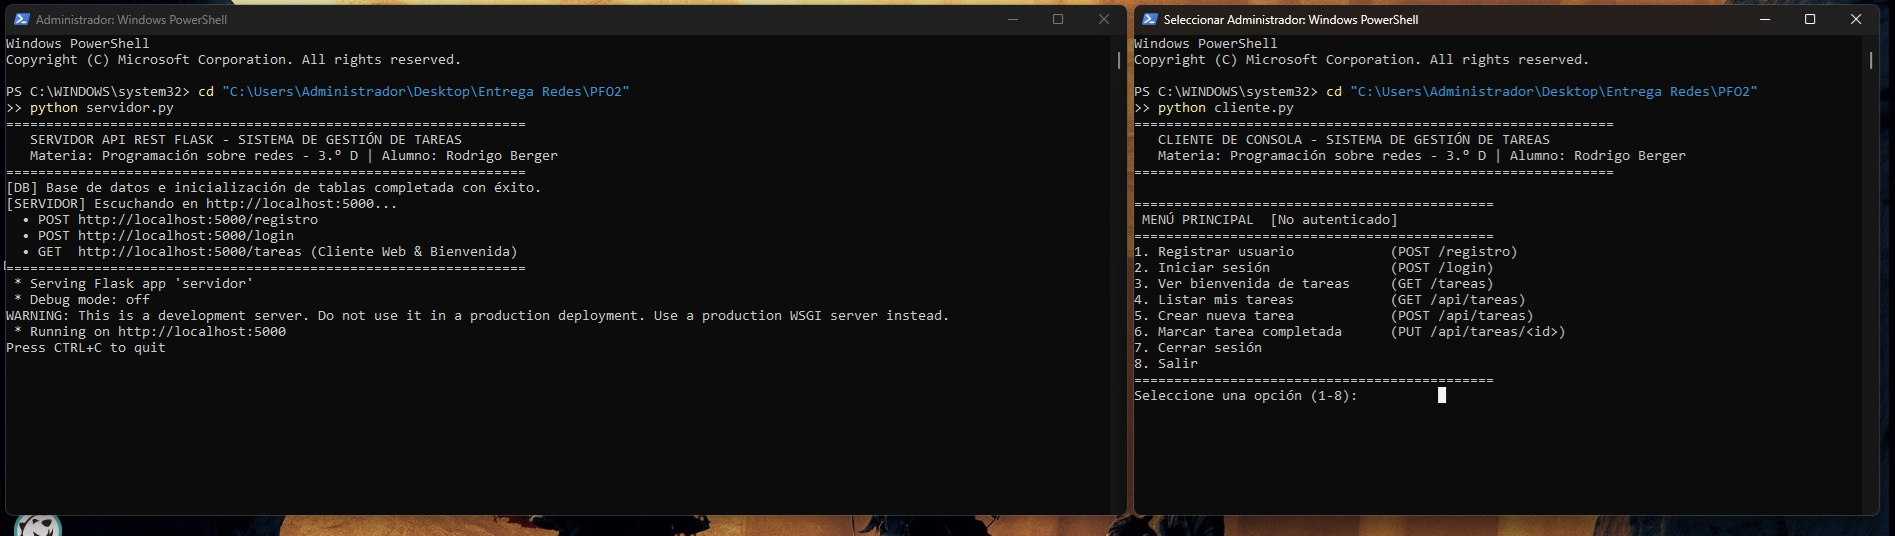
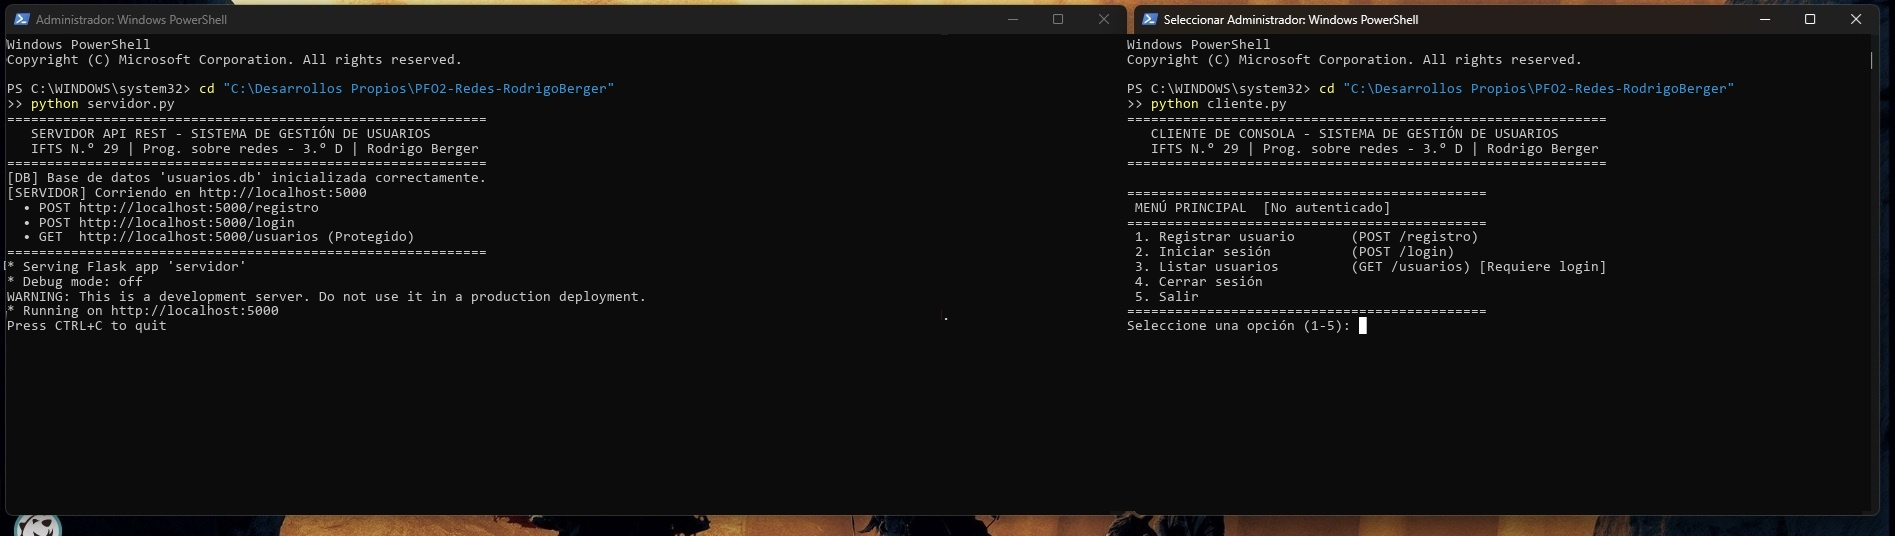
Actualizar capturas de pantalla de pruebas exitosas con alcance simplificado e IFTS 29

Changed region(s): [[0.5916, 0.0597, 0.934, 0.9552], [0.0, 0.1493, 0.4982, 0.6567], [0.0, 0.0597, 0.2491, 0.1194]]

diff --git a/README.md b/README.md
@@ -162,7 +162,35 @@ Para probar el inicio de sesión y el listado de inmediato, la base de datos se 
 
 ---
 
-## 🌐 6. Enlaces del Proyecto
+## 📸 6. Capturas de Pantalla de Pruebas Exitosas
+
+### 1. Inicialización del Servidor y Cliente
+Puesta en marcha del servidor API Flask en `http://localhost:5000` con la base de datos `usuarios.db` inicializada, junto al menú interactivo de `cliente.py` indicando la institución **IFTS N.° 29**.
+![01 - Servidor y Cliente Iniciados](Capturas/01.jpg)
+
+### 2. Formulario de Registro de Usuario
+Selección de la Opción 1 en el cliente de consola e ingreso de credenciales para dar de alta un nuevo usuario (`Berger`, `1234`).
+![02 - Formulario de Registro](Capturas/02.jpg)
+
+### 3. Registro Exitoso (`POST /registro` 201 Created)
+Confirmación del alta en el cliente y verificación en el log del servidor indicando el almacenamiento seguro mediante hash criptográfico con salt en SQLite.
+![03 - Registro Exitoso con Hash](Capturas/03.jpg)
+
+### 4. Inicio de Sesión (`POST /login` 200 OK)
+Verificación de credenciales contra el hash en base de datos SQLite y actualización del estado de sesión activa a `[Berger]`.
+![04 - Login Exitoso](Capturas/04.jpg)
+
+### 5. Listado Protegido de Usuarios (`GET /usuarios` 200 OK)
+Petición al endpoint protegido `GET /usuarios` enviando las credenciales de sesión activa, visualizando la lista de usuarios registrados sin exponer datos sensibles.
+![05 - Listado de Usuarios](Capturas/05.jpg)
+
+### 6. Flujo Completo y Cliente Web Interactivo
+Ejecución integral visualizando las peticiones en vivo en las terminales y la interacción simultánea en el cliente web (`index.html`) con tabla dinámica y consola de auditoría HTTP en tiempo real.
+![06 - Cliente Web y Logs](Capturas/06.jpg)
+
+---
+
+## 🌐 7. Enlaces del Proyecto
 
 - **Repositorio en GitHub:**  
   [https://github.com/rdbergeruser-stack/PFO2-Redes-RodrigoBerger](https://github.com/rdbergeruser-stack/PFO2-Redes-RodrigoBerger)
